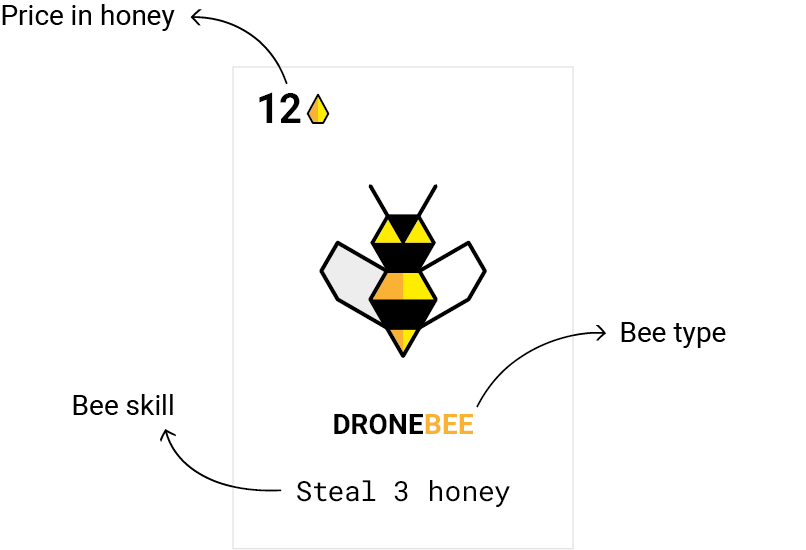
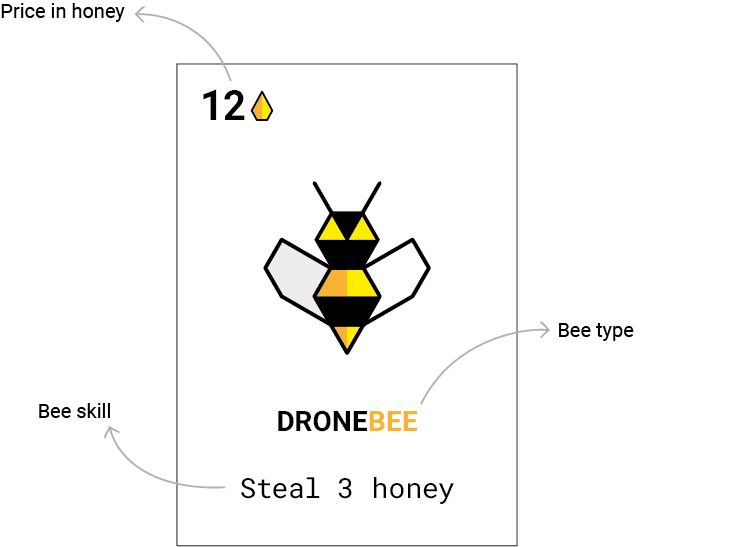
Improved readability of rulebook. Thank you @aimeebethmj

diff --git a/README.md b/README.md
@@ -17,14 +17,14 @@ Will you manage to maximise your honey profits while avoiding *drone strikes* an
 ![](assets/setup.png)
 
 1. Place the **beesness cards** `1` face up, stacked by bee type.
-2. Put all the **honey** `2` in one pot (or piles). That will be the **bank**. 
+2. Stack all the **honey** `2` in two piles. That will be the **bank**. 
 
 	Each player starts with **12 honey** plus a **roll of the die** `5`. This could bring your starting capital to 18 honey! :game_die:
-3. Pick the flowers-honey **price chart** `3` corresponding to the number of players and put it next to the honey-pot bank. 
-4. Place the round tracker cards `4` (the **calendar**) next to the price chart and put the die over the first month (1).
-5. *Plant* **6 flower tokens** `6` for each player on the table. It doesn't matter which colour flowers are.
+3. How many of you are playing? Take the **price chart** `3` for the current number of players and put it next to the bank. 
+4. The **calendar** cards `4` track the rounds. Place them next to the price chart and put the die over the first month (1).
+5. The *garden of Commons* `6` grows at the centre of the table. *Plant* **6 flower tokens** for each player. It doesn't matter which colour flowers are.
 
-	> For example: if there are 4 players, plant 24 flowers. 
+	> For example: if there are 4 players, *plant* 24 flowers. 
 
 
 
@@ -32,7 +32,9 @@ Will you manage to maximise your honey profits while avoiding *drone strikes* an
 
 ### Players take turns, going *clockwise* :alarm_clock: around the table.
 
+**Rotate the starting player**. If you started this round, the player to your left will start the next.
 
+<!--
 ## Who starts the round?
 
 There are two ways to decide this:
@@ -41,26 +43,28 @@ There are two ways to decide this:
 	
 	If you wish, you can *beed* to start at the beginning of every round.
 2. If nobody wants to *beed*, then you will **rotate the starting player**. If you started this round, the player to your left will start the next.
+-->
 
 
 ## On your turn
 
-### At the beginning of your turn you can **buy beesness cards** to grow your beesness. Then you can use your beesness cards to **execute your beesness plan**.
+### At the beginning of your turn you can **buy beesness cards** to grow your beesness. Then you can use your cards to **execute your beesness plan**.
 
 1. **Buy beesness cards**! 
 
-	If you want and can afford their price, you *can* buy one or more beesness cards. 
+	If you have enough honey and want to expand your beesness, you *can* buy one or more beesness cards. 
 	
 	Pay the bank the price for each card in honey and add the card(s) to your beesness. 
+	
+	You keep the cards throughout the game and can re-use them all at every round.
 2. **Execute your beesness plan**!  
 
 	Every beesness card has a skill. Use as many of your cards as you like. 
 
-	You can deploy newly acquired bees immediately, there's no need to wait for the next round.
+	You can use new bees immediately, there's no need to wait for the next round.
 	
-	> For example: you have 2 workers, 1 drone and 1 queen. You could use your queen to buy an extra drone at half price. Then use your 2 workers to pick 2 flowers (1 flower each) and use your drones to steal up to 6 honey from other beesnesses (n any combination).
+	> For example: you have 2 workers, 1 drone and 1 queen. You could use your queen to buy an extra drone at half price. Then use your 2 workers to pick 2 flowers (1 flower each) and use your drones to steal up to 6 honey from other beesnesses.
 
-<!-- -->
 
 ## At the end of a round
 
@@ -68,11 +72,11 @@ There are two ways to decide this:
 
 1. **Trade flowers on the stalk exchange**!
 
-	The maximum you can get for 1 flower is 3 honey, when only a few flowers are traded. The more flowers on the market, the less they are worth (a.k.a. [*supply&demand*](https://en.wikipedia.org/wiki/Supply_and_demand)).
+	You have 1 minute to decide how many of your flowers to put on the stalk exchange. Everybody does this at the same time.
 	
-	You have 1 minute to decide how many flowers to put on the stalk exchange. Everybody does this at the same time. 
+	You could get between 1 and 3 honey for each flower you trade. Their price will depend on how many flowers are traded on the stalk exchange by all players. The more flowers, the less they are worth (a.k.a. [*supply&demand*](https://en.wikipedia.org/wiki/Supply_and_demand)).
 	
-	Put as many flowers as you want to trade (from none to all) in your hand. Without revealing them, place your close fist at the centre of the table. When everyone is ready, open your hands to show how many flowers you are trading.
+	Put the flowers you want to trade (from none to all) in your hand. Without revealing them, place your closed fist at the centre of the table. When everyone is ready, open your hands to show how many flowers you are trading.
 
 	Check the **price chart** to determine the **price of one flower**.
  
@@ -87,15 +91,18 @@ There are two ways to decide this:
 	Replant **one flower per player**. Then **roll the die** and replant as many flowers as the die says. :game_die:
 
 	> For example: if there are 4 players, add 4 flowers to the *garden*. Then roll the die: it's a 2, so you add another 2 flowers.
-3. Move the die to the next space on the calendar to keep track of the rounds.
+3. Move the die to the next space on the **calendar** to keep track of the rounds.
+
+
 
 # Meet the bees
 
-Type | Price <sup>honey	| Skills
----- | ----------------	| ------
-**Worker** bee <br><br>![](assets/worker-bee.png) | **6** | It can **take 1 flower per month** from the garden. At the end of each round, you can trade flowers for honey. 
-**Drone** bee <br><br>![](assets/drone-bee.png) | **12** | It can **take up to 3 honey per month** from other beesnesses (in any combination, eg: 3 honey from 1 beesness, 1 honey from 3 different beesnesses, 2 from 1 beesness and 1 from another, etc.)
-**Queen** bee <br><br>![](assets/queen.png) | **18** | It can you can **buy other beesness cards at half their normal price**. 
+Type | Price | Skills
+---- | ----- | ------
+**Worker** <br><br>![](assets/worker-bee.png) | **6** honey | **Pick 1 flower per month** from the garden. 
+**Drone** <br><br>![](assets/drone-bee.png) | **12** honey | **Steal up to 3 honey per month** from other beesnesses in any combination, eg: 3 honey from 1 beesness, 1 honey from 3 different beesnesses, 2 from 1 beesness and 1 from another, etc.
+**Queen** <br><br>![](assets/queen.png) | **18** honey | Buy other beesness cards at **half their normal price**. 
+
 
 ## Anatomy of a beesness card
 
@@ -105,21 +112,21 @@ Type | Price <sup>honey	| Skills
 
 # How to win
 
-### The game ends at the end of the last month (12). **The player with the most honey wins!**
+### At the end of the last month (12), **the player with the most honey wins!**
 
 
 
 # How not to lose
 
-### If the garden runs out of flowers, everybody loses *immediately*.
+### If the garden runs out of flowers, at any point during the game, everybody loses *immediately*.
 
-To avoid this *beesaster*, you can decide all together to **give back** one or more of your beesness cards in order to replenish the garden. 
+To avoid this *beesaster*, you can decide all together to **donate** one or more of your beesness cards in order to replenish the garden. 
 
 Each beesness card can get you 1 flower. 
 
-You don't all have to give back the same number or type of cards. For example, one player may decide to give back 1 bee, and another player 3 bees. Discuss and try to reach a consensus. 
+You don't all have to give back the same number of cards. For example, one player may decide to give back 1 bee, and another player 3 bees. Discuss and try to reach a consensus. 
 
-Put the cards you are sacrificing onto their stack next to the bank and replant the garden with the corresponding number of flowers.
+Put the cards you are donating onto their stack next to the bank and replant the garden with the corresponding number of flowers.
 
 
 
@@ -132,7 +139,7 @@ Put the cards you are sacrificing onto their stack next to the bank and replant 
 	<!-- You cannot dismiss bees. You can only make them redundant if you're being attacked by a drone and don't have enough honey -->
 2. **Do my bees count at the end of the game?**
 
-	No. It's just the honey you have (that is, your *profits*) and not the overall *valuation* of your beesness. 
+	**No**. It's just the honey you have (that is, your *profits*) and not the overall *valuation* of your beesness. 
 3. **Can I make alliances with other players?**
 
 	Sure, why not? The terms of your trade agreements are up to you. 
